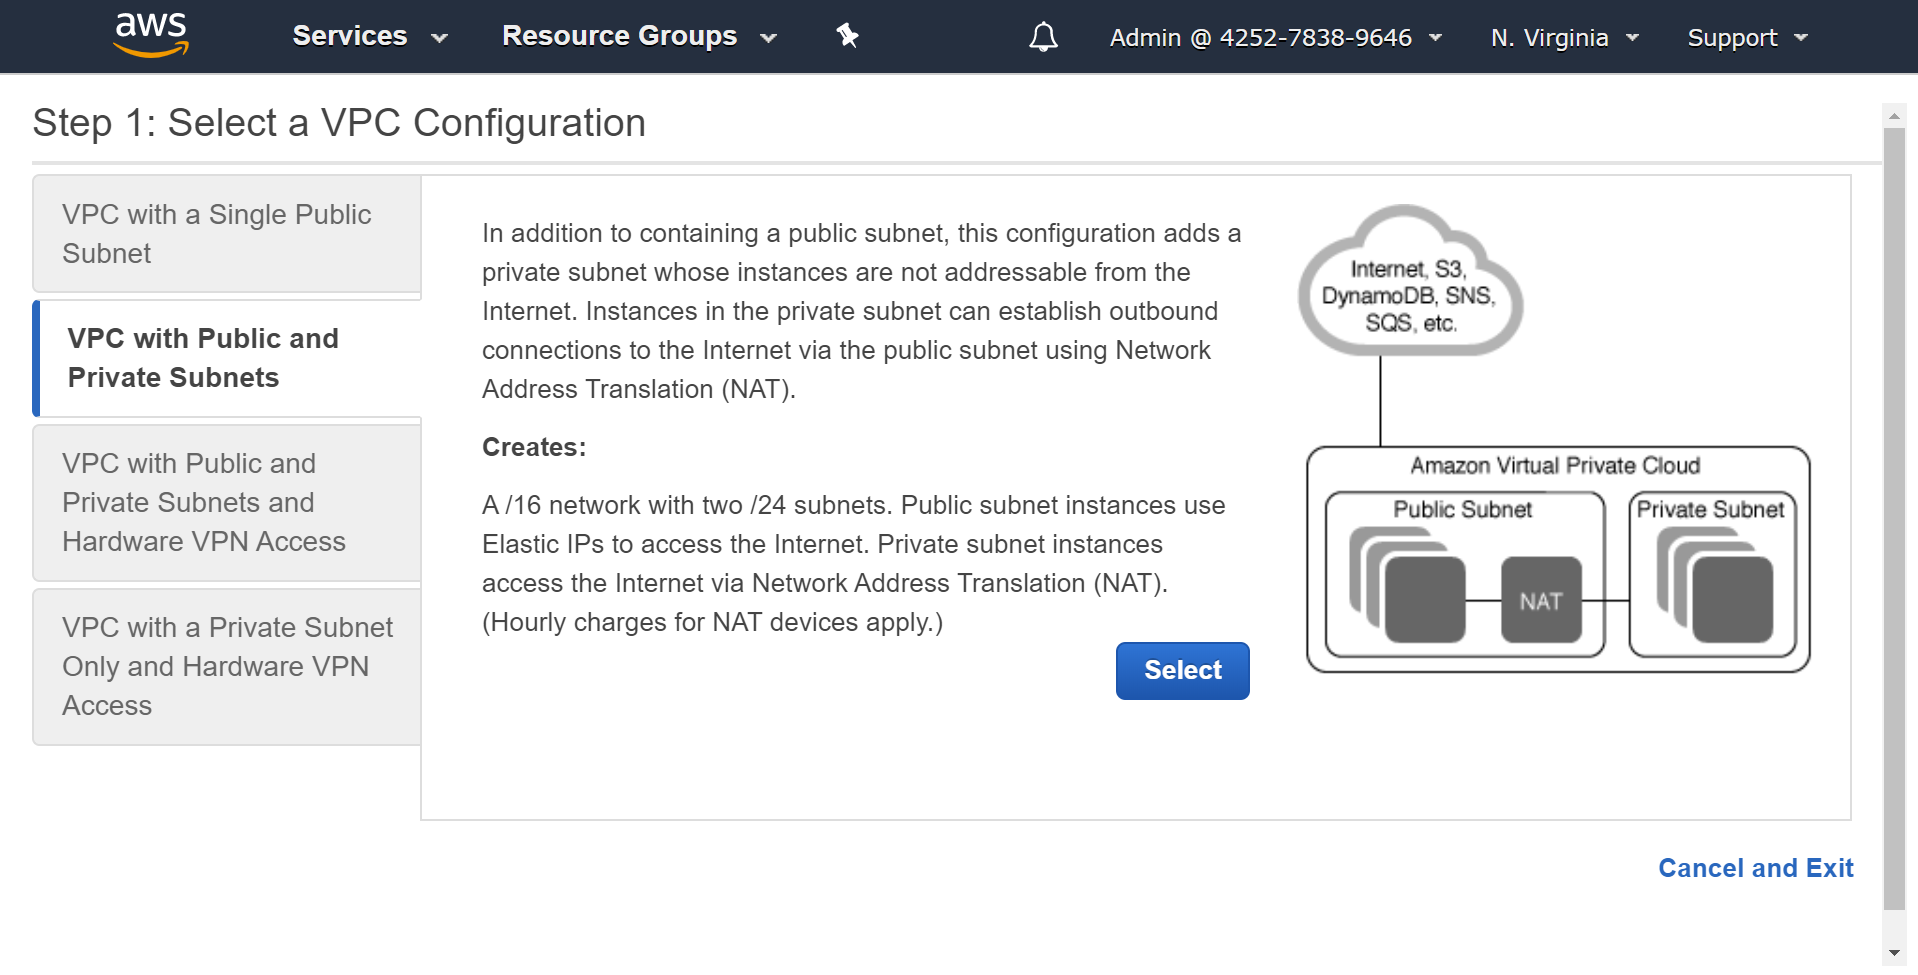
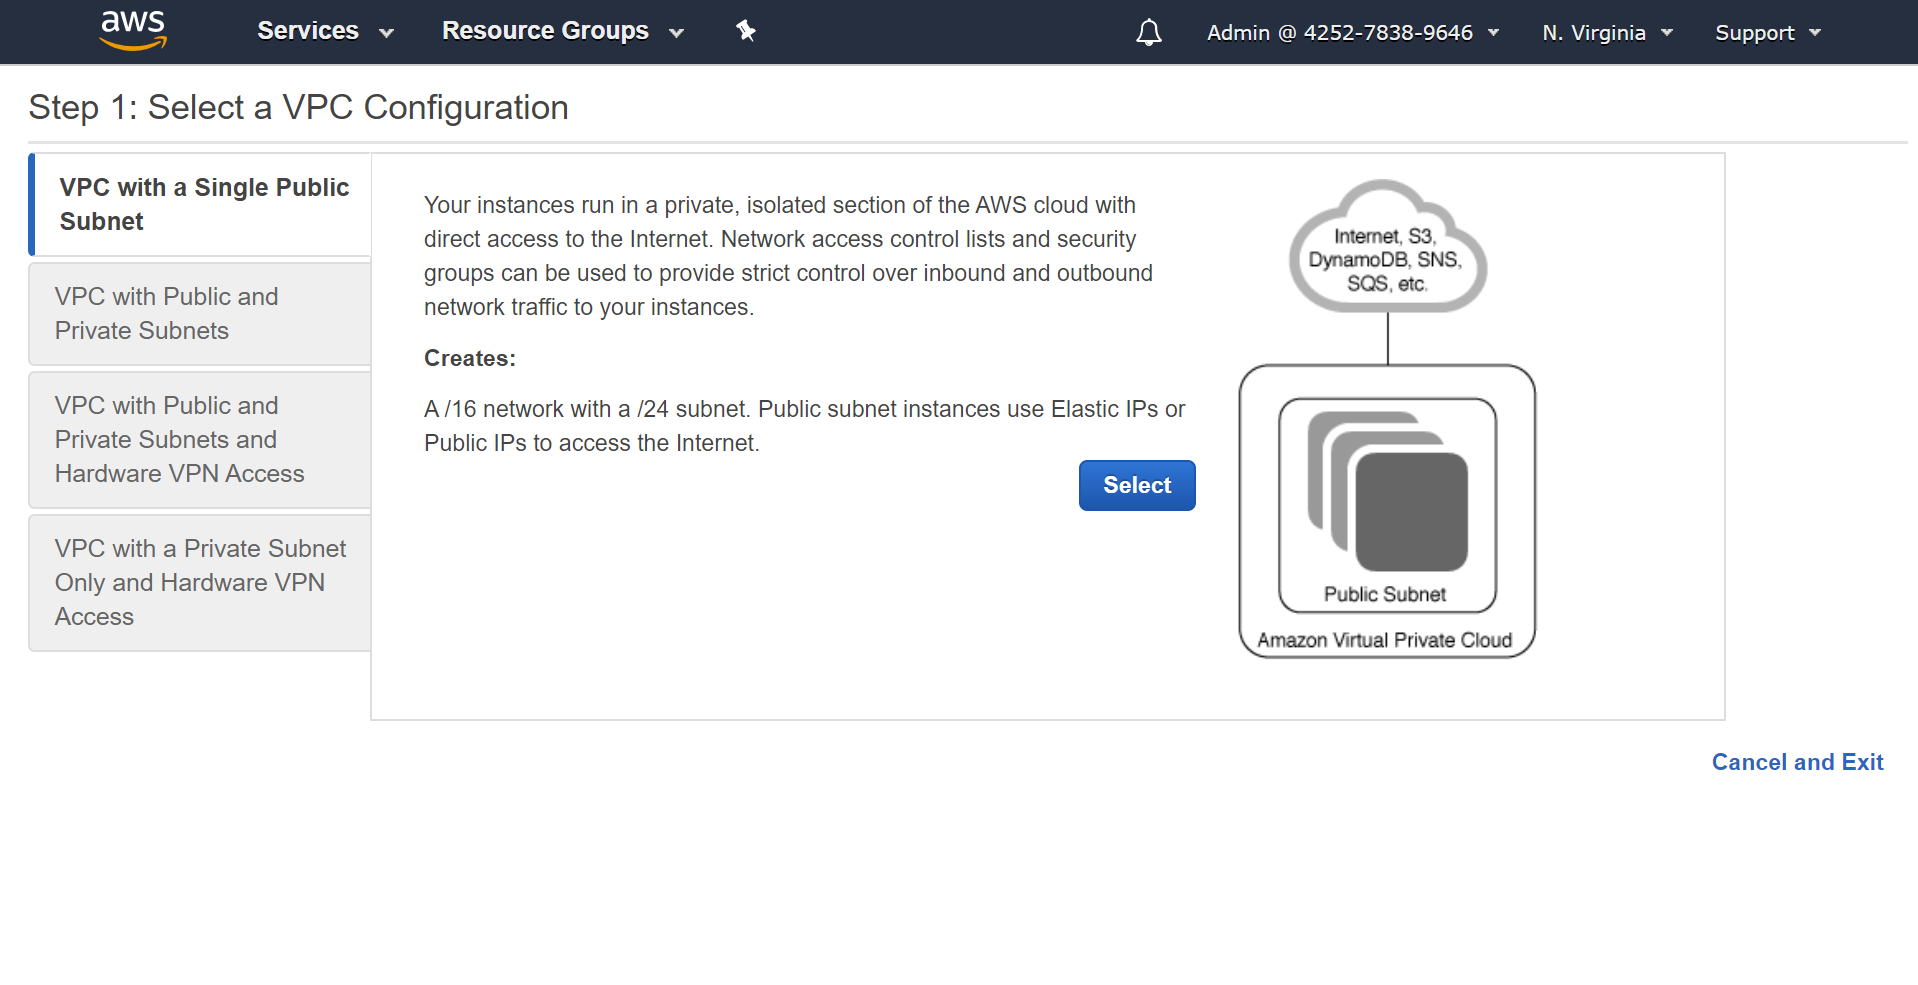
Modified network control rules.

Changed region(s): [[0.0, 0.0, 1.0, 0.9538]]

diff --git a/Step1/README.md b/Step1/README.md
@@ -31,11 +31,11 @@ Virtual Private Clouds (VPCs) allow us to isolate a group of resources from the 
 
     ![VPC management page](5-vpc.png)
 
-1. Select 'VPC with Public and Private Subnets', and click through to the next step.
+1. Select 'VPC with a Single Public Subnet', and click through to the next step.
 
-![VPC creation wizard](6-vpctype.png)
+    ![VPC creation wizard](6-vpctype.png)
 
-1. Set up the VPC using the settings below.  We'll be using a `t2.micro` instance for our NAT for this workshop, as it's covered by the AWS Free Tier.  You'll also need to set up a key pair as part of this, and download it to your local machine.  You'll need it in later steps.
+1. Set up the VPC using the settings below.
 
     ![VPC settings](7-vpcsettings.png)
 
@@ -43,7 +43,7 @@ Virtual Private Clouds (VPCs) allow us to isolate a group of resources from the 
 
     ![ACL settings](8-aclsettings.png)
 
-1. Remove the security rule that allows all outside traffic.  Then, do the same for the outbound rules.
+1. Get your Internet connection's public IP address (`!ip` in Google will give it to you), and then replace `0.0.0.0/0` in the Source with `your.ip.address.digits/32`.  Then, do the same for the outbound rules.  This means that only people with your public IP address can access instances inside the network ACL.
 
     ![ACL rules](9-lockdown.png)
 
@@ -51,13 +51,9 @@ Virtual Private Clouds (VPCs) allow us to isolate a group of resources from the 
 
     ![Route tables](10-routetables.png)
 
-1. Go to 'Subnets' in the VPC sidebar, and create a subnet using the following rules.  We need to do this so that there are two availability zones for the RDS database.
+1. Go to 'Subnets' in the VPC sidebar, and create a subnet using the following rules and a different availability zone from the default subnet.  We need to do this so that there are two availability zones for the RDS database.
 
     ![Create subnet](11-subnet.png)
-
-1. Open ElastiCache, and click on the 'Subnet groups' link in the sidebar.  Create a subnet group with the following settings, and add the two private subnets to it.
-
-    ![Create subnet group](11-subnetgroup.png)
 
 ## Creating the EC2 instance
 
